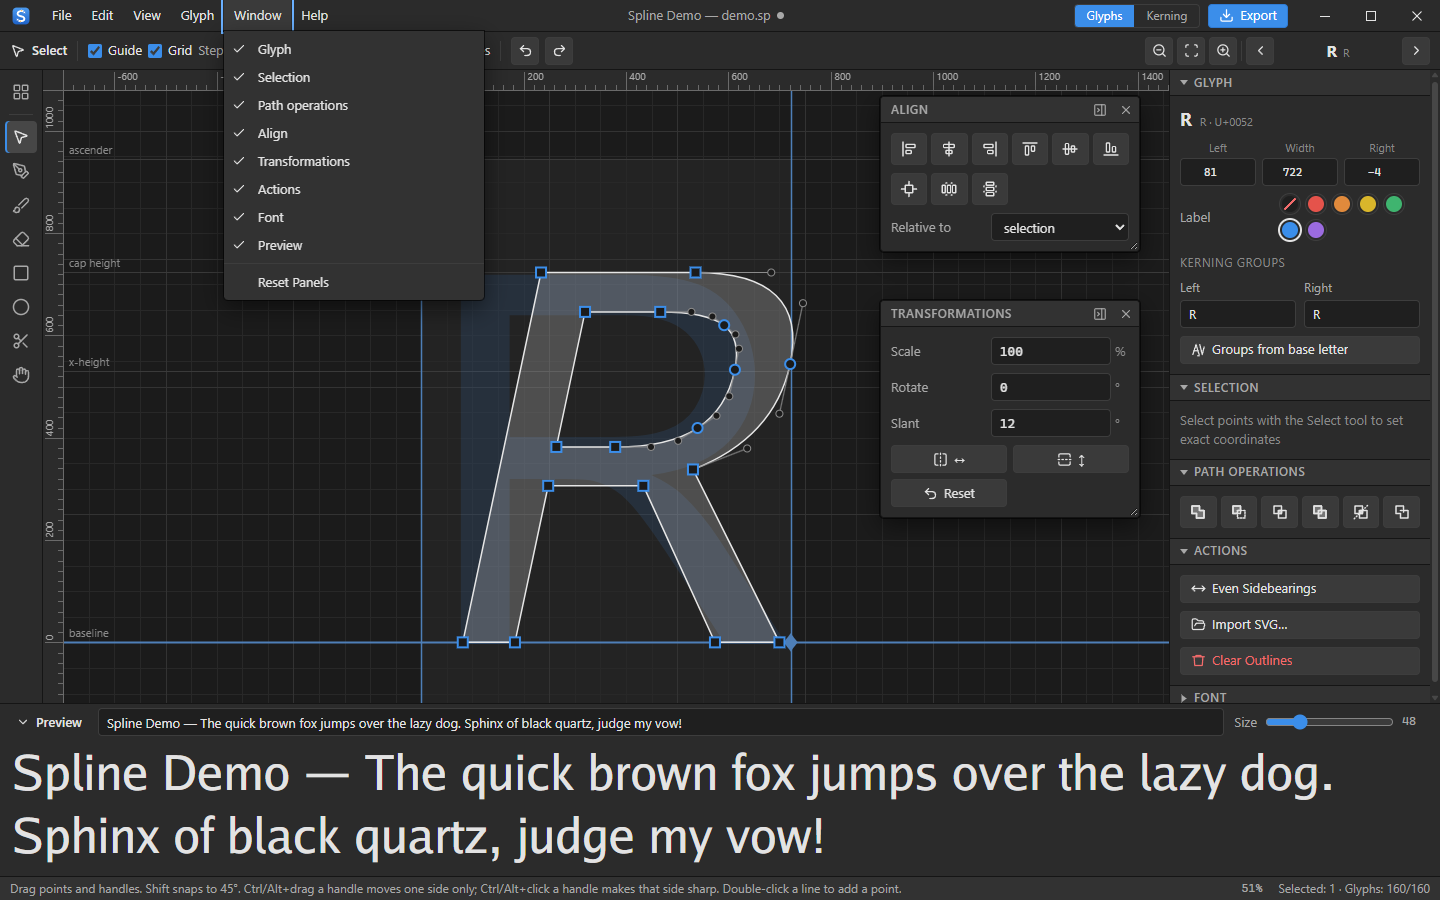
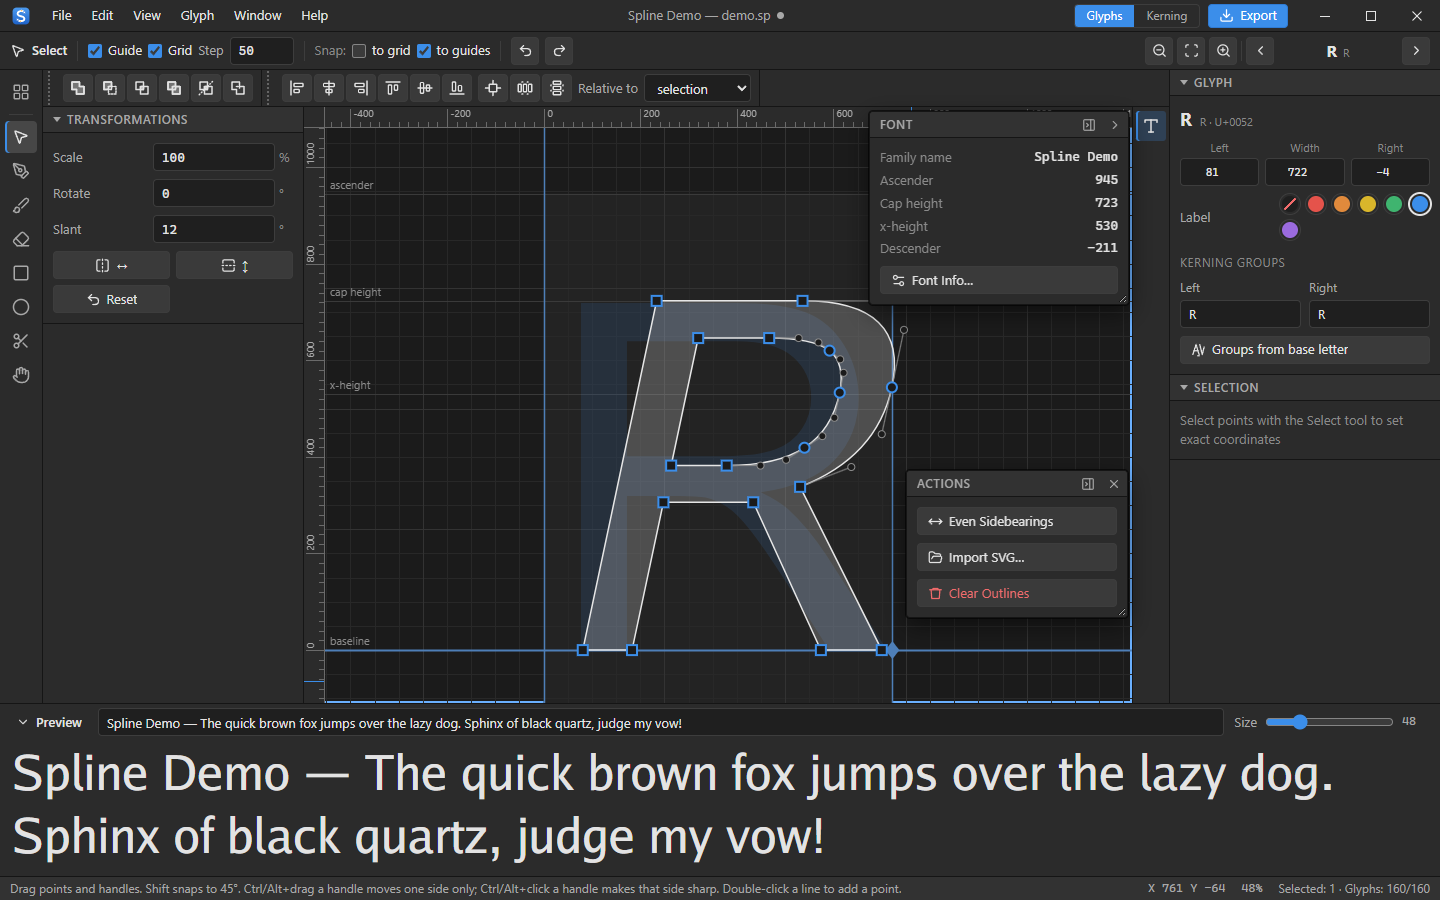
README: screenshot of the new panel places

diff --git a/README.md b/README.md
@@ -14,7 +14,7 @@
 | Редактор контуров | Кернинг |
 |---|---|
 | ![Редактор](docs/screenshots/editor.png) | ![Кернинг](docs/screenshots/kerning.png) |
-| **Плавающие панели и меню «Окно»** | **Горячие клавиши (F1): можно переназначить** |
+| **Панели: сверху, слева, иконкой и окном** | **Горячие клавиши (F1): можно переназначить** |
 | ![Панели](docs/screenshots/panels.png) | ![Горячие клавиши](docs/screenshots/keys.png) |
 
 <sub>На скриншотах демо-проект [examples/demo.sp](examples/demo.sp), собранный из контуров открытого шрифта Go Regular (© The Go Authors, BSD-подобная лицензия) командой `go run ./tools/mkdemo`.</sub>

diff --git a/README.en.md b/README.en.md
@@ -14,7 +14,7 @@ Draw letters with a brush or a pen, import SVG and export a ready TTF/OTF font w
 | Outline editor | Kerning |
 |---|---|
 | ![Editor](docs/screenshots/en/editor.png) | ![Kerning](docs/screenshots/en/kerning.png) |
-| **Floating panels and the Window menu** | **Keyboard shortcuts (F1), reassignable** |
+| **Panels: on top, on the left, as an icon and floating** | **Keyboard shortcuts (F1), reassignable** |
 | ![Panels](docs/screenshots/en/panels.png) | ![Keyboard shortcuts](docs/screenshots/en/keys.png) |
 
 <sub>The screenshots show the demo project [examples/demo.sp](examples/demo.sp), built from the outlines of the open Go Regular font (© The Go Authors, BSD-style license) with `go run ./tools/mkdemo`.</sub>
